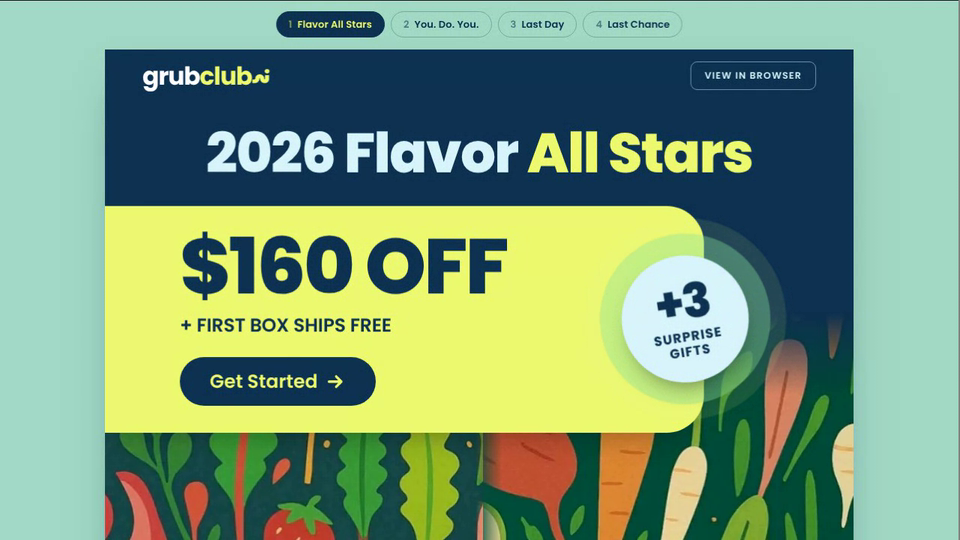
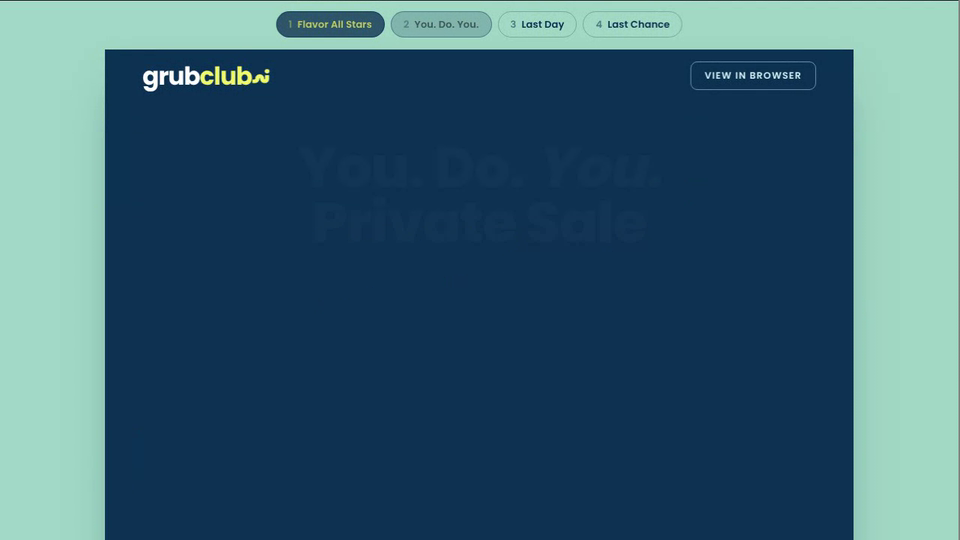
Flavor All Stars: redraw the veggie and grasshopper illustration as vectors, density thins to none toward the top (no fade)
Claude-Session: https://claude.ai/code/session_01AHeBdyyngqxczdkvkomgou

diff --git a/flavor-all-stars/index.html b/flavor-all-stars/index.html
@@ -57,10 +57,8 @@ footer{background:var(--navy);color:var(--egg);text-align:left;padding:4cqw 5cqw
 footer .logo{font-size:max(22px,3.3cqw);color:#fff}
 footer p{margin:1.8cqw 0 0;max-width:62cqw;font-size:max(8.5px,1.05cqw);line-height:1.6;color:#8fb4c4}
 .pat{position:relative;background:var(--veg);overflow:hidden}
-.pat::before,.pat::after{content:"";position:absolute;top:0;bottom:0;width:50.5%;background:url(pattern-a.webp) center 30%/cover no-repeat}
-.pat::before{left:0}
-.pat::after{right:0;background-image:url(pattern-b.webp);background-position:center 40%;-webkit-mask:linear-gradient(90deg,transparent,#000 7%);mask:linear-gradient(90deg,transparent,#000 7%)}
 .pat>*{position:relative;z-index:1}
+.pat>svg.art{position:absolute;inset:0;width:100%;height:100%;z-index:0;display:block}
 .t{font-weight:800;letter-spacing:-.025em;line-height:.98;margin:0}
 .t em{font-style:normal;color:var(--kiwi)}
 .up{opacity:0;transform:translateY(20px);transition:opacity .7s,transform .8s cubic-bezier(.2,.8,.2,1);transition-delay:var(--d,0ms)}
@@ -92,8 +90,8 @@ footer p{margin:1.8cqw 0 0;max-width:62cqw;font-size:max(8.5px,1.05cqw);line-hei
 .badge.blue span{font-size:max(12px,2.7cqw);letter-spacing:-.01em;text-transform:none;font-weight:800;line-height:1.05;margin:0}
 
 /* ===== 1 flavor all stars ===== */
-#e1 .hero{position:relative;background:var(--navy);padding:0 0 20cqw;isolation:isolate}
-#e1 .hero .pat{position:absolute;left:0;right:0;bottom:0;height:36cqw;z-index:-1;-webkit-mask:linear-gradient(to bottom,transparent,#000 30%);mask:linear-gradient(to bottom,transparent,#000 30%)}
+#e1 .hero{position:relative;background:var(--veg);padding:0 0 20cqw;isolation:isolate}
+#e1 .hero .pat{position:absolute;inset:0;z-index:-1}
 #e1 h1{margin:3.2cqw 5cqw 0;text-align:center;font-size:max(30px,7.4cqw);color:var(--egg)}
 #e1 .panel{margin-top:3.4cqw}
 #e1 .badge{right:-6cqw;top:50%;margin-top:-8.5cqw}
@@ -201,7 +199,7 @@ footer p{margin:1.8cqw 0 0;max-width:62cqw;font-size:max(8.5px,1.05cqw);line-hei
 <article class="email" id="e1" aria-label="Flavor All Stars email">
   <div data-hdr></div>
   <section class="hero">
-    <div class="pat"></div>
+    <div class="pat" data-h="680" data-grad="0.32,0.9"></div>
     <h1 class="t up" style="--d:100ms">2026 Flavor <em>All Stars</em></h1>
     <div class="panel up" style="--d:350ms">
       <div class="amt">$160 off</div>
@@ -262,7 +260,7 @@ footer p{margin:1.8cqw 0 0;max-width:62cqw;font-size:max(8.5px,1.05cqw);line-hei
 <article class="email" id="e3" aria-label="Private Sale, last day to save email" hidden>
   <div data-hdr></div>
   <section class="top"><h1 class="t up"><span class="t s">Private Sale</span><span class="t b">Last Day</span><span class="t s">To Save!</span></h1></section>
-  <section class="pat scene"><img class="up" style="--d:300ms" src="plate-lastday.webp" alt="Cricket-crusted cutlet in cream sauce with roasted squash and green beans on a blue plate"></section>
+  <section class="pat scene" data-h="460"><img class="up" style="--d:300ms" src="plate-lastday.webp" alt="Cricket-crusted cutlet in cream sauce with roasted squash and green beans on a blue plate"></section>
   <section class="full">
     <div class="amt">17 Free Meals*</div>
     <p class="sub">+ First box ships free<br>+ 3 Surprise gifts</p>
@@ -285,7 +283,7 @@ footer p{margin:1.8cqw 0 0;max-width:62cqw;font-size:max(8.5px,1.05cqw);line-hei
       <div class="badge blue"><b></b><b></b><b></b><div><span>Last<br>Chance!</span></div></div>
     </div>
   </section>
-  <section class="pat row3" style="margin-top:4cqw">
+  <section class="pat row3" data-h="560" style="margin-top:4cqw">
     <img class="rv" src="plate-row-a.webp" alt="Mealworm and cricket grain bowl with lemon"><img class="rv" src="plate-row-b.webp" alt="Seared buffalo worm steak with salad and roasted potatoes"><img class="rv" src="plate-row-c.webp" alt="Cricket cutlet in mushroom sauce with wilted greens and lemon">
   </section>
   <section class="ext"><h2 class="t">Extended One<br>More Day!</h2><p>Good news&mdash;you have one more day to snag our <b>Private Sale</b> deal on delicious recipes delivered. Don&rsquo;t wait, save now!</p></section>
@@ -302,6 +300,49 @@ function rng(a){return()=>{a|=0;a=a+0x6D2B79F5|0;let t=Math.imul(a^a>>>15,1|a);t
 const LOGO='<div class="logo">grub<i>club</i><span class="wm" style="color:var(--kiwi)"></span></div>';
 $$('[data-hdr]').forEach(e=>{e.className='hdr';e.innerHTML=LOGO+'<a>View in browser</a>'});
 $$('[data-ftr]').forEach(e=>{const t=e.dataset.ftr;e.outerHTML='<footer>'+LOGO+'<p>'+t+'</p></footer>'});
+
+
+/* ===== the veggie + grasshopper illustration, drawn as vectors =====
+   flat shapes in the Grubclub greens on dark green; art() scatters them with dart throwing, so the density can ramp from none at the top to full at the bottom */
+const f1=n=>Math.round(n*10)/10;
+function leafPath(h,w,lobes,amp){const N=64,Lp=[],Rp=[];for(let i=0;i<=N;i++){const t=i/N,y=-h/2+h*t,base=Math.pow(Math.sin(Math.PI*Math.pow(t,.85)),.7)*w/2,k=1+amp*Math.sin(t*lobes*2*Math.PI);Lp.push(f1(-base*k)+' '+f1(y));Rp.push(f1(base*k)+' '+f1(y))}return 'M'+Lp.join('L')+'L'+Rp.reverse().join('L')+'Z'}
+const GR={lt:'#9ED04B',md:'#5BB343',dk:'#2E8B3C',kale:'#3D9F3E'};
+const SYM={
+ carrot:`<path d="M0 -44 C-20 -44 -20 0 -4 62 Q0 68 4 62 C20 0 20 -44 0 -44Z" fill="#F0922F"/><path d="M-11 -24h9M3 -8h9M-9 10h8M2 28h6" stroke="#C8691E" stroke-width="3" stroke-linecap="round"/><path d="M0 -44C-12 -62 -10 -84 -20 -104 -2 -92 3 -68 0 -44ZM0 -44C12 -62 12 -80 24 -98 8 -84 2 -64 0 -44Z" fill="${GR.md}"/><path d="M0 -44C-3 -70 -3 -90 0 -108 4 -90 4 -70 0 -44Z" fill="${GR.dk}"/>`,
+ parsnip:`<path d="M0 -46 C-14 -46 -13 0 -3 66 Q0 72 3 66 C13 0 14 -46 0 -46Z" fill="#F4E8C8"/><path d="M-8 -26h7M2 -10h8M-7 8h7M1 26h6" stroke="#E7A35B" stroke-width="2.6" stroke-linecap="round"/><path d="M0 -46C-8 -70 -4 -92 -8 -112 4 -94 6 -70 0 -46Z" fill="${GR.md}"/><path d="M0 -46C8 -64 16 -78 26 -88 14 -62 8 -52 0 -46Z" fill="${GR.dk}"/>`,
+ beet:`<path d="M-8 -34C-44 -36 -50 8 -26 30 -14 40 -6 44 -4 56 -2 68 6 78 22 84 14 70 10 58 12 46 40 36 50 6 36 -18 24 -34 8 -40 -8 -34Z" fill="#D95A43"/><path d="M-30 -8Q-6 -2 -14 24M-6 -24Q22 -14 14 12M16 -20Q34 -8 30 6" fill="none" stroke="#A8412E" stroke-width="3.4" stroke-linecap="round"/><path d="M-6 -34C-14 -56 -28 -66 -44 -64 -36 -48 -22 -38 -6 -34Z" fill="${GR.md}"/><path d="M-4 -36C0 -58 8 -72 22 -78 18 -58 10 -44 -4 -36Z" fill="${GR.dk}"/>`,
+ radish:`<path d="M0 -30C-26 -30 -34 4 -16 26 -8 36 -2 44 0 66 2 44 8 36 16 26 34 4 26 -30 0 -30Z" fill="#E98A84"/><path d="M-4 -30C-10 -52 -22 -62 -38 -60 -30 -44 -18 -34 -4 -30ZM4 -30C10 -52 22 -62 38 -60 30 -44 18 -34 4 -30Z" fill="${GR.md}"/>`,
+ berry:`<path d="M0 36C-34 14 -34 -24 -16 -28 -8 -26 -4 -22 0 -22 4 -22 8 -26 16 -28 34 -24 34 14 0 36Z" fill="#E04A3F"/><g fill="#F5C65A"><ellipse cx="-12" cy="-8" rx="2.4" ry="3.6"/><ellipse cx="6" cy="-12" rx="2.4" ry="3.6"/><ellipse cx="18" cy="0" rx="2.4" ry="3.6"/><ellipse cx="-2" cy="4" rx="2.4" ry="3.6"/><ellipse cx="-18" cy="8" rx="2.4" ry="3.6"/><ellipse cx="10" cy="16" rx="2.4" ry="3.6"/><ellipse cx="-4" cy="22" rx="2.4" ry="3.6"/></g><path d="M-20 -26 -10 -38 0 -28 10 -38 20 -26 8 -22 0 -16 -8 -22Z" fill="${GR.md}"/><path d="M0 -28V-44" stroke="${GR.dk}" stroke-width="4" stroke-linecap="round"/>`,
+ avo:`<path d="M0 -62C32 -62 48 -24 48 8 48 42 26 62 0 62-26 62-48 42-48 8-48-24-32-62 0-62Z" fill="#5FAE3A"/><path d="M0 -50C24 -50 38 -20 38 8 38 34 20 50 0 50-20 50-38 34-38 8-38-20-24-50 0-50Z" fill="#B3DB5E"/><circle cx="0" cy="14" r="20" fill="#B8652E"/>`,
+ apple:`<path d="M0 -34C-12 -44 -44 -36 -44 0 -44 36 -22 50 0 44 22 50 44 36 44 0 44 -36 12 -44 0 -34Z" fill="#8CC63F"/><path d="M0 -26C-10 -34 -36 -28 -36 0 -36 30 -18 42 0 37 18 42 36 30 36 0 36 -28 10 -34 0 -26Z" fill="#F3E4B8"/><ellipse cx="0" cy="2" rx="12" ry="15" fill="#E8D29C"/><ellipse cx="-3" cy="2" rx="2.2" ry="4" fill="#B5652E"/><ellipse cx="3" cy="2" rx="2.2" ry="4" fill="#B5652E"/><path d="M0 -30V-48" stroke="#8B5A2B" stroke-width="4" stroke-linecap="round"/>`,
+ lettuce:`<path d="${leafPath(132,68,5,.16)}" fill="${GR.lt}"/><path d="M0 -62V66M0 -20Q-14 -30 -22 -40M0 6Q14 -4 22 -14M0 30Q-14 20 -22 10" fill="none" stroke="${GR.md}" stroke-width="3" stroke-linecap="round"/><path d="M0 66V96" stroke="#7A8F3A" stroke-width="6" stroke-linecap="round"/>`,
+ kale:`<path d="${leafPath(156,60,7,.22)}" fill="${GR.kale}"/><path d="M0 -74V78" stroke="#1F6F2B" stroke-width="3.4" stroke-linecap="round"/><path d="M0 78V104" stroke="${GR.kale}" stroke-width="6" stroke-linecap="round"/>`,
+ arugula:`<path d="${leafPath(120,42,4,.32)}" fill="${GR.md}"/><path d="M0 -56V58" stroke="${GR.dk}" stroke-width="3" stroke-linecap="round"/><path d="M0 58V84" stroke="${GR.md}" stroke-width="5" stroke-linecap="round"/>`,
+ sprig:`<path d="M0 70C-4 20 4 -20 0 -70" fill="none" stroke="#3E9A47" stroke-width="4" stroke-linecap="round"/><g fill="${GR.md}"><ellipse cx="-16" cy="-52" rx="13" ry="10" transform="rotate(-20 -16 -52)"/><ellipse cx="15" cy="-34" rx="13" ry="10" transform="rotate(20 15 -34)"/><ellipse cx="-17" cy="-12" rx="14" ry="11" transform="rotate(-20 -17 -12)"/><ellipse cx="16" cy="10" rx="14" ry="11" transform="rotate(20 16 10)"/><ellipse cx="-14" cy="32" rx="12" ry="9" transform="rotate(-20 -14 32)"/><ellipse cx="0" cy="-74" rx="10" ry="12"/></g>`,
+ flower:`<path d="M0 0V84M0 44Q-16 32 -22 12M0 60Q16 48 22 28" fill="none" stroke="#E9A23B" stroke-width="4" stroke-linecap="round"/><path d="${(()=>{let d='';for(let i=0;i<28;i++){const a=i/28*Math.PI*2,r=i%2?15:30;d+=(i?'L':'M')+f1(Math.cos(a)*r)+' '+f1(Math.sin(a)*r)}return d+'Z'})()}" fill="#F2B33D"/><circle r="9" fill="#F7CD6B"/>`,
+ drop:`<path d="M0 -20C14 0 14 16 0 18-14 16-14 0 0 -20Z" fill="#E0553F"/>`,
+ drop2:`<path d="M0 -20C14 0 14 16 0 18-14 16-14 0 0 -20Z" fill="#EF8E86"/>`,
+ dot:`<circle r="5" fill="#F3B33E"/>`,
+ hopper:`<g fill="none" stroke="#62B64E" stroke-width="4.4" stroke-linecap="round" stroke-linejoin="round"><path d="M-22 8L-28 24L-36 38M0 10L-4 28L-12 42M14 6L36 -22L58 24L66 38"/><path d="M-40 -8Q-54 -34 -70 -44M-38 -10Q-44 -40 -52 -56"/></g><path d="M-34 0Q-14 -14 22 -8Q42 -4 46 8Q22 14 -12 12Q-30 10 -34 0Z" fill="#62B64E"/><path d="M-26 -4Q14 -26 62 8Q16 -2 -26 -4Z" fill="#46973A"/><ellipse cx="-38" cy="-3" rx="10" ry="9" fill="#62B64E"/><circle cx="-41" cy="-6" r="2.2" fill="#0A4B3D"/>`,
+ hopperR:`<g fill="none" stroke="#C4543A" stroke-width="4.4" stroke-linecap="round" stroke-linejoin="round"><path d="M-22 8L-28 24L-36 38M0 10L-4 28L-12 42M14 6L36 -22L58 24L66 38"/><path d="M-40 -8Q-54 -34 -70 -44M-38 -10Q-44 -40 -52 -56"/></g><path d="M-34 0Q-14 -14 22 -8Q42 -4 46 8Q22 14 -12 12Q-30 10 -34 0Z" fill="#C4543A"/><path d="M-26 -4Q14 -26 62 8Q16 -2 -26 -4Z" fill="#A23F2B"/><ellipse cx="-38" cy="-3" rx="10" ry="9" fill="#C4543A"/><circle cx="-41" cy="-6" r="2.2" fill="#0A4B3D"/>`
+};
+/* type: symbol, weight, radius at scale 1 (for spacing), max tilt in degrees */
+const KIND=[['carrot',3,58,26],['parsnip',3,58,26],['beet',2,48,50],['radish',1,40,30],['berry',1.4,38,30],['avo',1,56,30],['apple',1,48,30],['lettuce',3,56,22],['kale',2.4,66,22],['arugula',1.6,48,26],['sprig',2.6,52,18],['flower',1.1,44,18],['hopper',2.4,52,40],['hopperR',.6,52,40]];
+const SMALL=[['drop',3,14,180],['drop2',2,14,180],['dot',3,6,0]];
+(function(){const d=document.createElementNS('http://www.w3.org/2000/svg','svg');d.setAttribute('width',0);d.setAttribute('height',0);d.setAttribute('aria-hidden','true');d.style.cssText='position:absolute;left:-9999px';
+  d.innerHTML='<defs>'+Object.keys(SYM).map(k=>`<g id="v-${k}">${SYM[k]}</g>`).join('')+'</defs>';document.body.prepend(d)})();
+function art(host,seed){const W=1000,H=+host.dataset.h||600,g=host.dataset.grad?host.dataset.grad.split(',').map(Number):null,R=rng(seed);
+  const dens=y=>{if(!g)return 1;const t=clamp((y/H-g[0])/(g[1]-g[0]));return t*t*(3-2*t)};   // 0 at the top, 1 at the bottom: fewer pieces, never a fade
+  const pick=L=>{let r=R()*L.reduce((a,k)=>a+k[1],0);for(const k of L){if((r-=k[1])<0)return k}return L[0]};
+  const out=[],placed=[];
+  const tryPlace=(L,tries,sMin,sMax,gap,ydens)=>{for(let n=0;n<tries;n++){const k=pick(L),sc=sMin+R()*(sMax-sMin),x=-20+R()*(W+40),y=-20+R()*(H+40),r=k[2]*sc;
+      if(R()>ydens(y-r*.85))continue;
+      if(placed.some(p=>Math.hypot(p[0]-x,p[1]-y)<(p[2]+r)*gap))continue;
+      placed.push([x,y,r]);out.push(`<use href="#v-${k[0]}" transform="translate(${f1(x)} ${f1(y)}) rotate(${f1((R()*2-1)*k[3])}) scale(${f1(sc)})"/>`)}};
+  tryPlace(KIND,2600,1.15,1.75,.72,dens);                              // the vegetables and grasshoppers
+  tryPlace(SMALL,1600,.9,1.5,1.0,y=>dens(y)*.9);                         // drops and dots in the gaps
+  host.insertAdjacentHTML('afterbegin',`<svg class="art" viewBox="0 0 ${W} ${H}" preserveAspectRatio="xMidYMax slice" aria-hidden="true">${out.join('')}</svg>`)}
+$$('.pat').forEach((h,i)=>art(h,17+i*31));
 
 /* confetti beside the timeline: seeded so it is always the same, kept in the margins so it never touches the text */
 (function(){const R=rng(5),cols=['#EEFB71','#8CE39B','#D7F5FA'];let h='';
